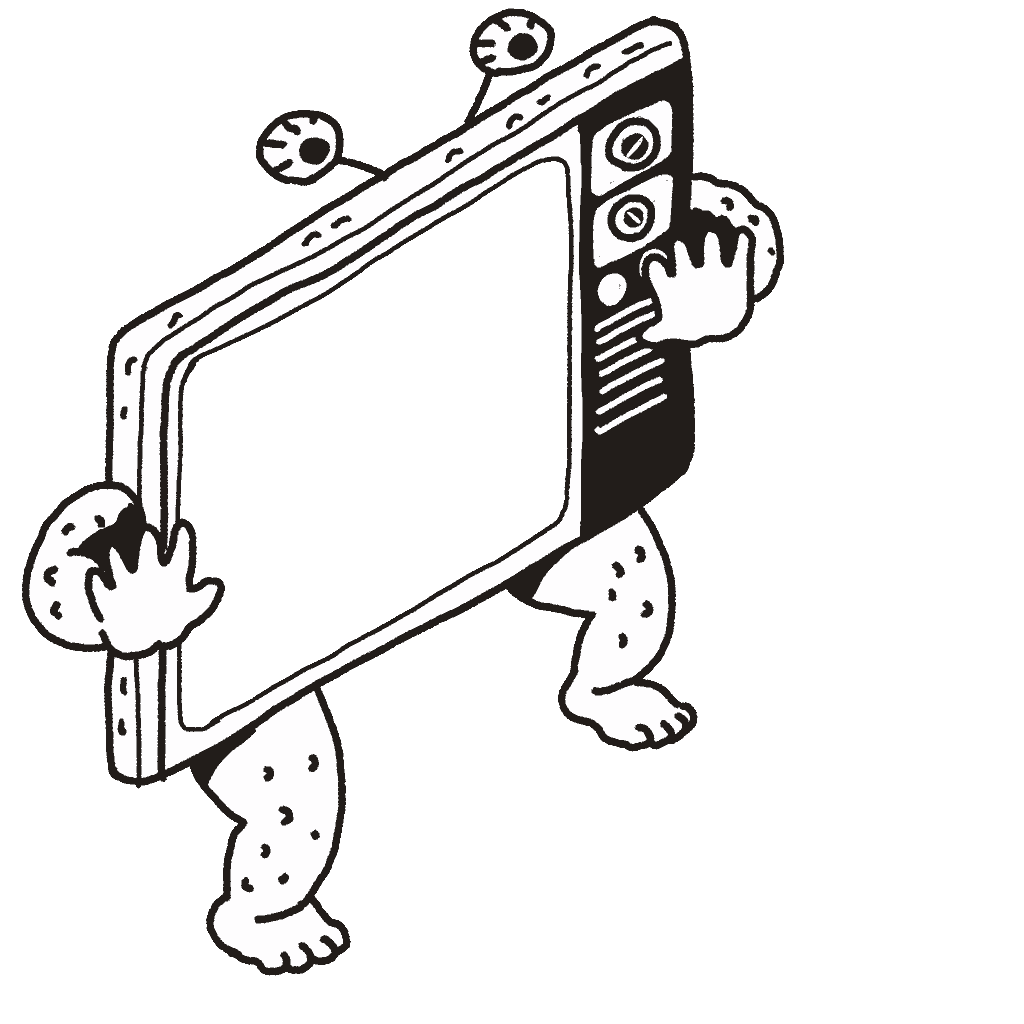
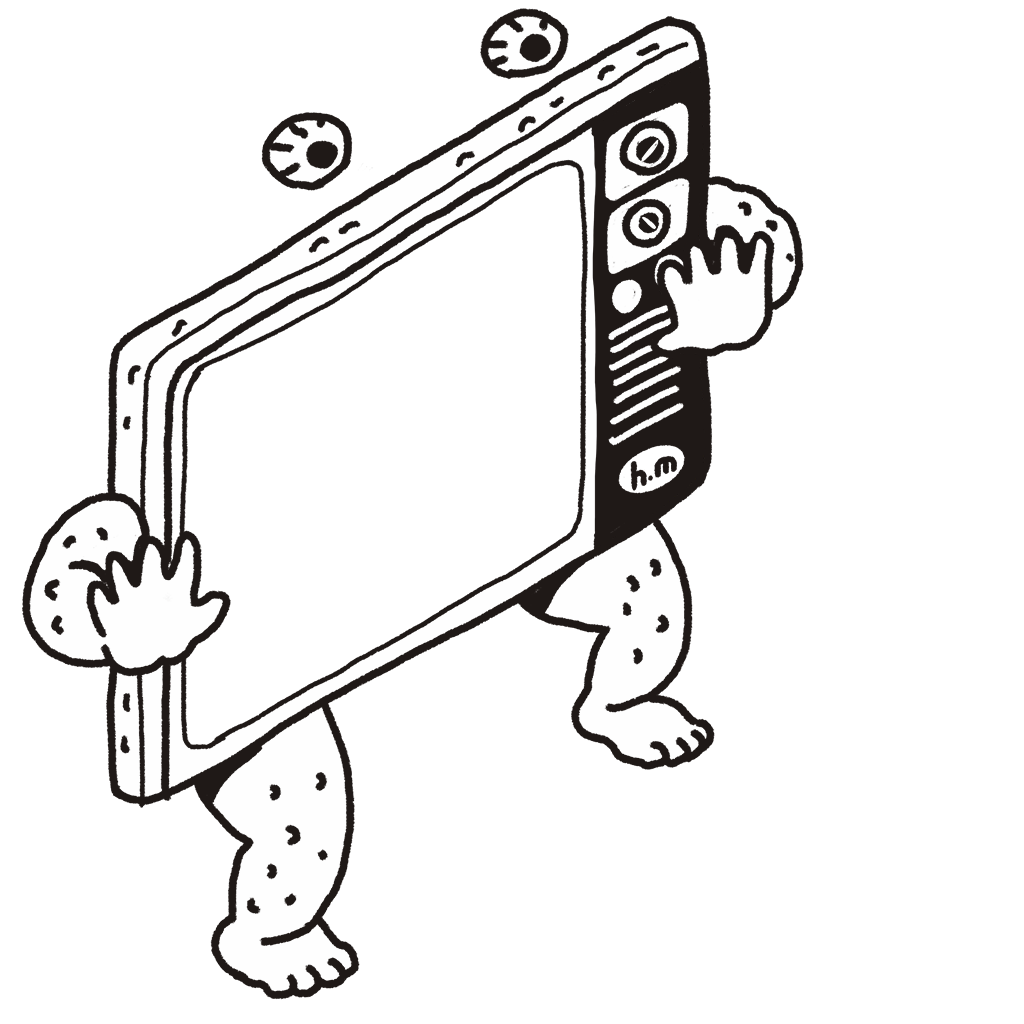
Adds final illustrations

Changed region(s): [[0.0, 0.0, 0.7812, 1.0]]

diff --git a/pages/2018/dec.js b/pages/2018/dec.js
@@ -31,12 +31,12 @@ export default {
       illustration: Random.sample([
         {
           url: neko,
-          position: new Vector3(0.55, 1.05, 1.14),
+          position: new Vector3(0.55, 1.00, 1.14),
           geometry: new PlaneGeometry(1.10, 0.90),
         },{
           url: monster,
-          position: new Vector3(0.70, 1.05, 1.08),
-          geometry: new PlaneGeometry(1.10, 0.90),
+          position: new Vector3(0.70, 1.01, 1.05),
+          geometry: new PlaneGeometry(1.10, 0.92),
         }
       ]),
       textureLoader: new TextureLoader(),
